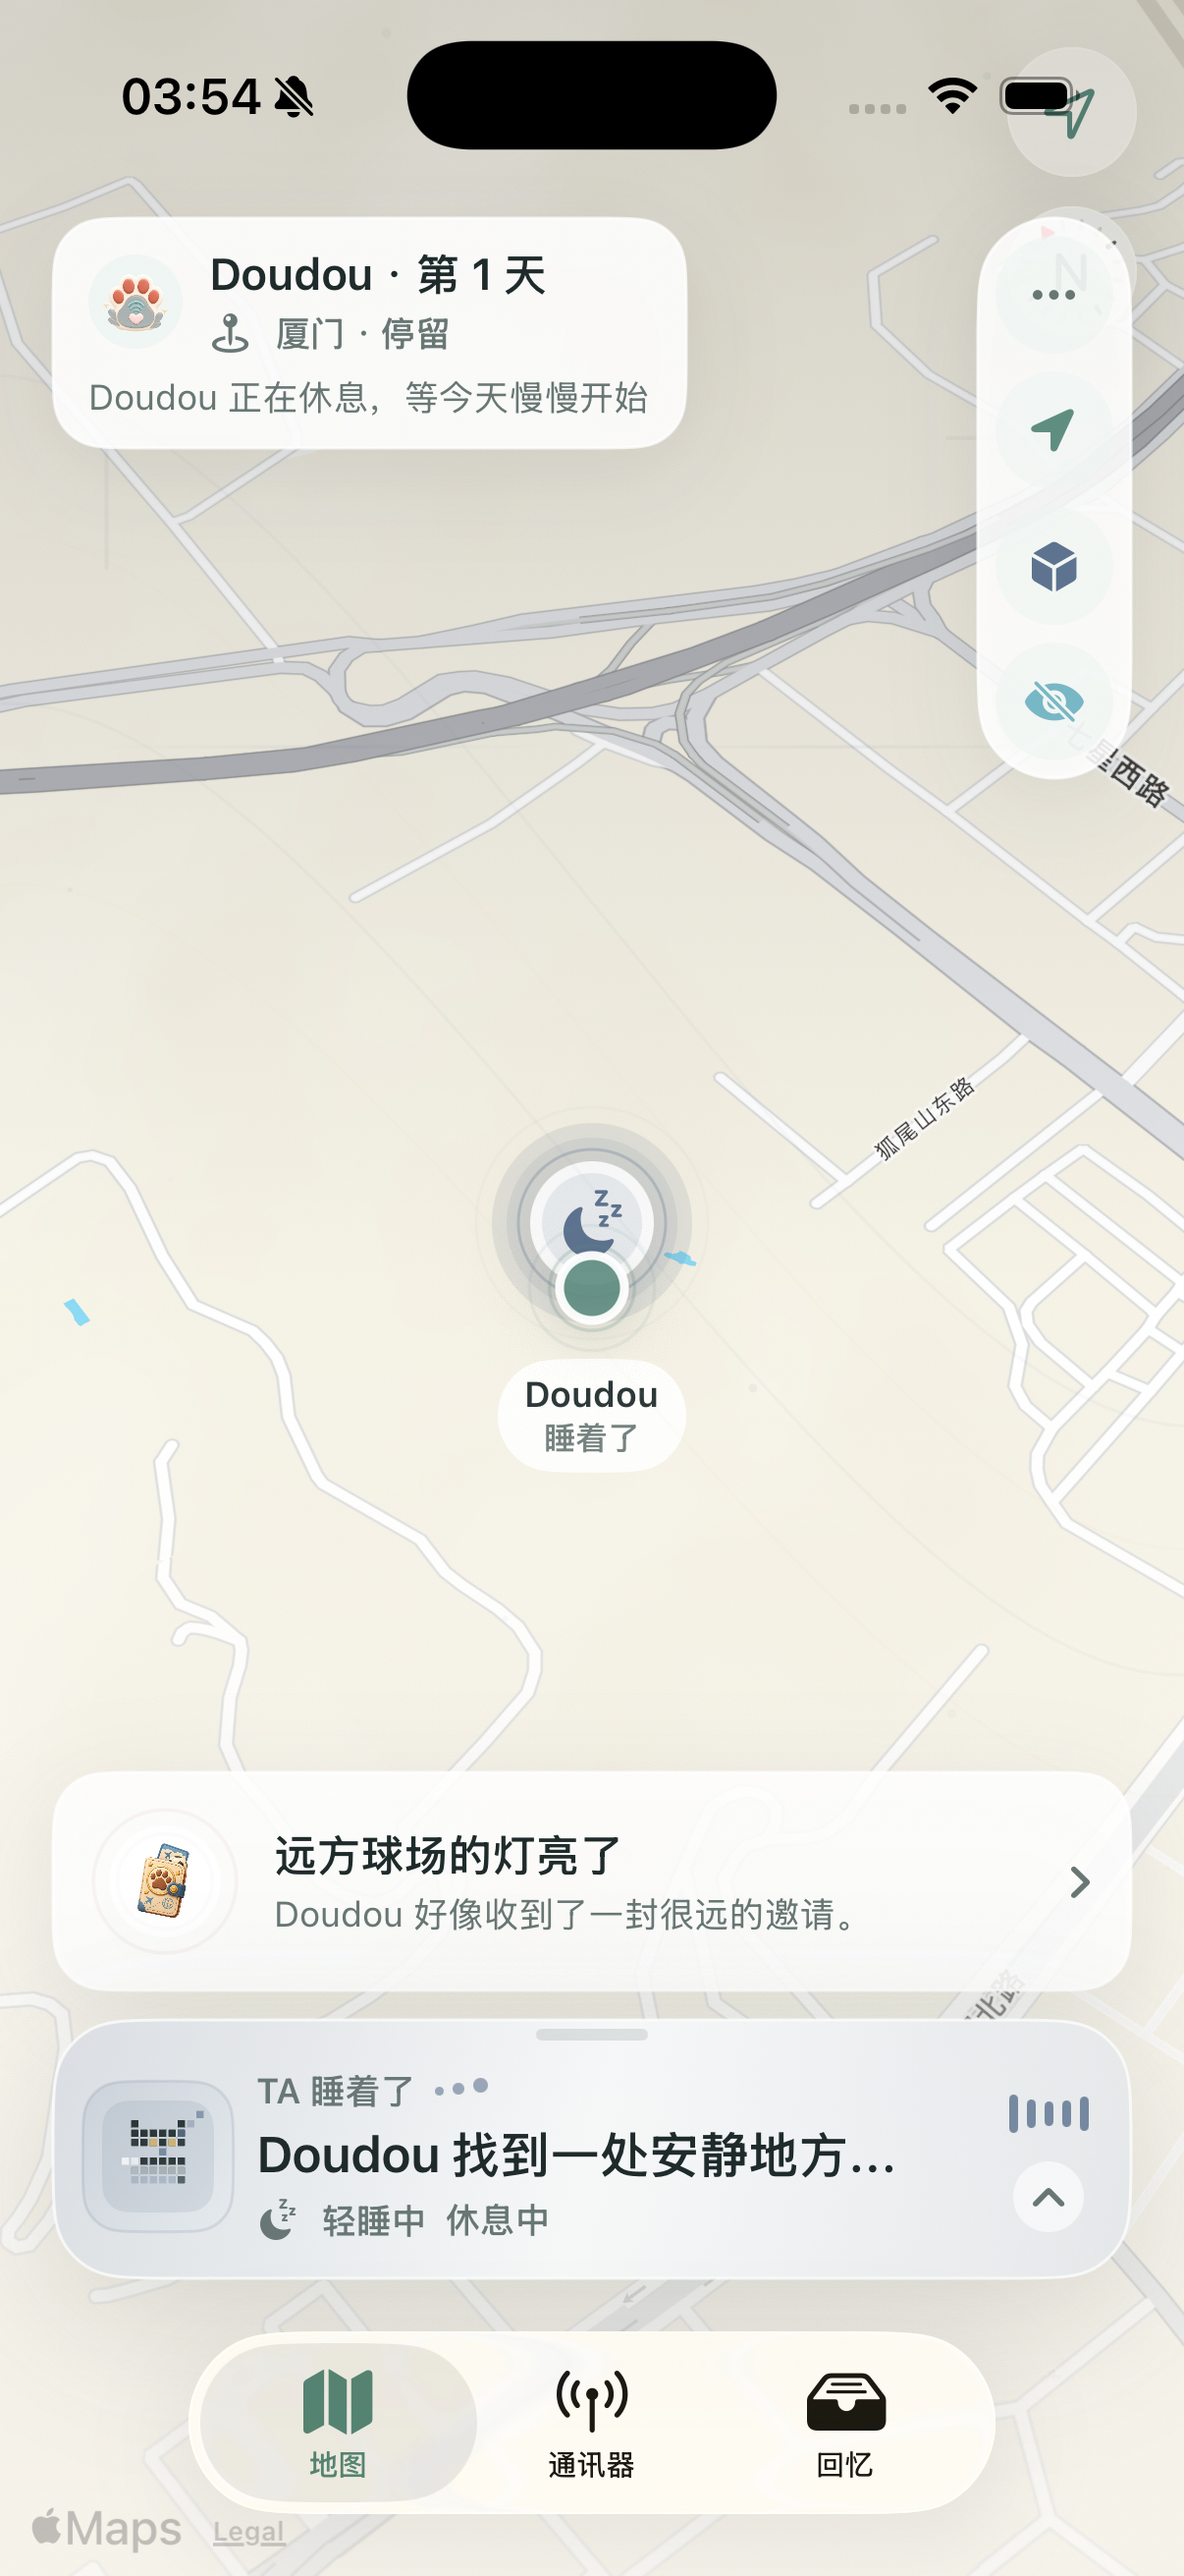
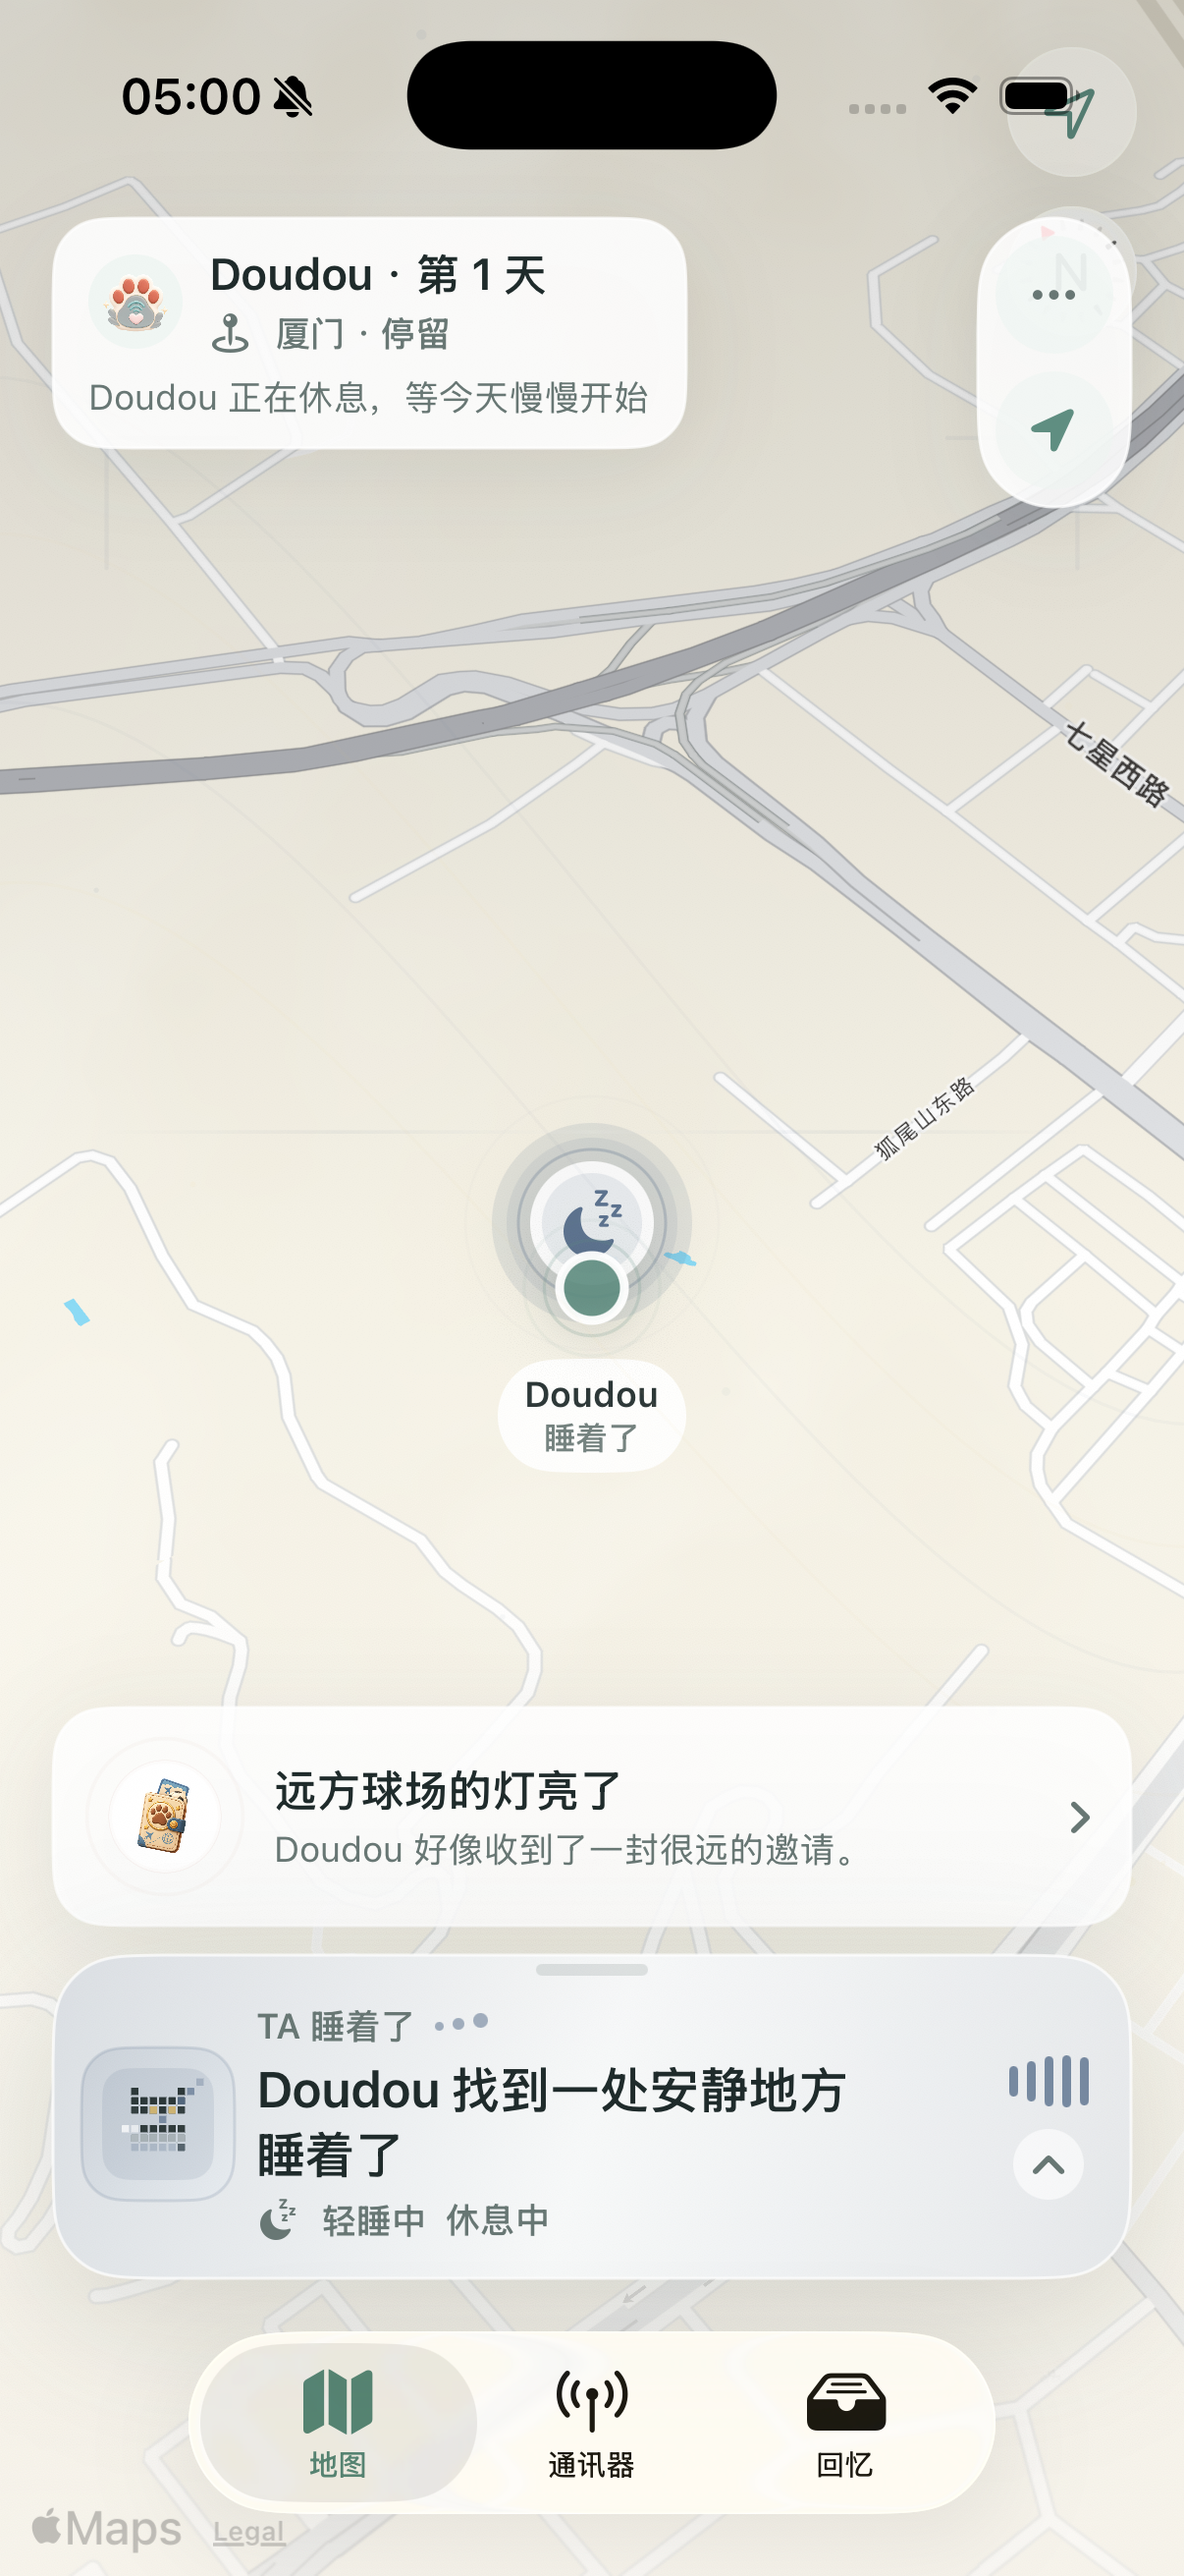
style(ios): 夜间 wash 对齐「灯下暖夜」深暖绿炭底（验收发现）
nightDeep/Mid/Soft 从冷海军蓝（B>G>R：0x131E36 系）改为暖绿炭
（G 主导：0x1A2A24 / 0x24342C / 0x34443A），对齐 porcelain.dark/mist.dark
色相族；四相位重拍：night 均值 (139,146,140) 绿主导，改前为蓝主导
(135,141,151)；day/dusk/dawn 色温不变。

diff --git a/PetJourneyIOS/PetJourneyIOS/Design/DesignTokens.swift b/PetJourneyIOS/PetJourneyIOS/Design/DesignTokens.swift
@@ -52,9 +52,11 @@ enum DesignTokens {
         static let duskMauve = Color(hex: 0x8A5A78)
         static let duskEmber = Color(hex: 0xE0956B)
         static let duskCream = Color(hex: 0xF6E3CE)
-        static let nightDeep = Color(hex: 0x131E36)
-        static let nightMid = Color(hex: 0x1E2A44)
-        static let nightSoft = Color(hex: 0x2A3752)
+        // 夜间对齐设计系统的「灯下暖夜」深暖绿炭底（porcelain.dark 0x131917 /
+        // mist.dark 0x1A2320 的色相族）：G 通道最高，不再是冷海军蓝。
+        static let nightDeep = Color(hex: 0x1A2A24)
+        static let nightMid = Color(hex: 0x24342C)
+        static let nightSoft = Color(hex: 0x34443A)
         static let horizonGlow = Color(hex: 0xF8F2EA)
         static let nightStarlight = Color(hex: 0xFDF6DC)
     }
